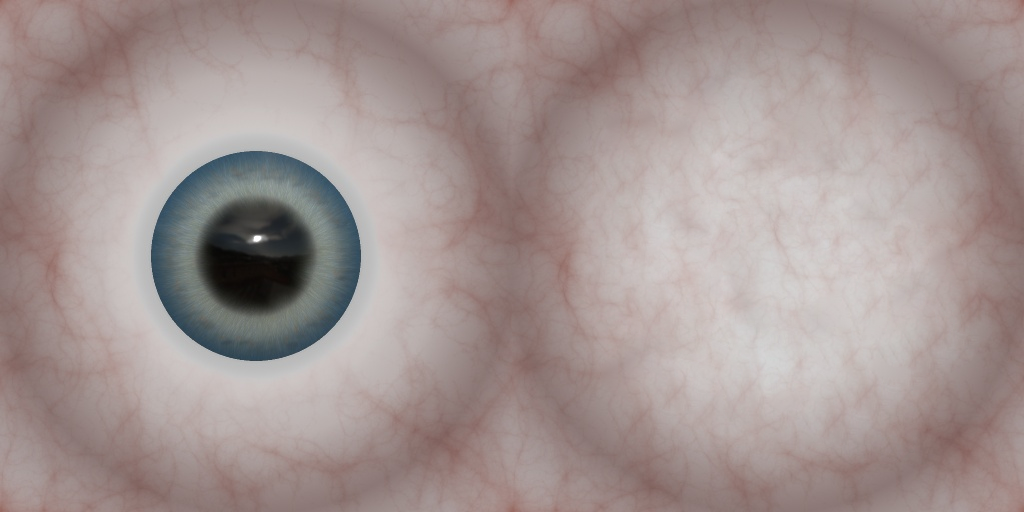
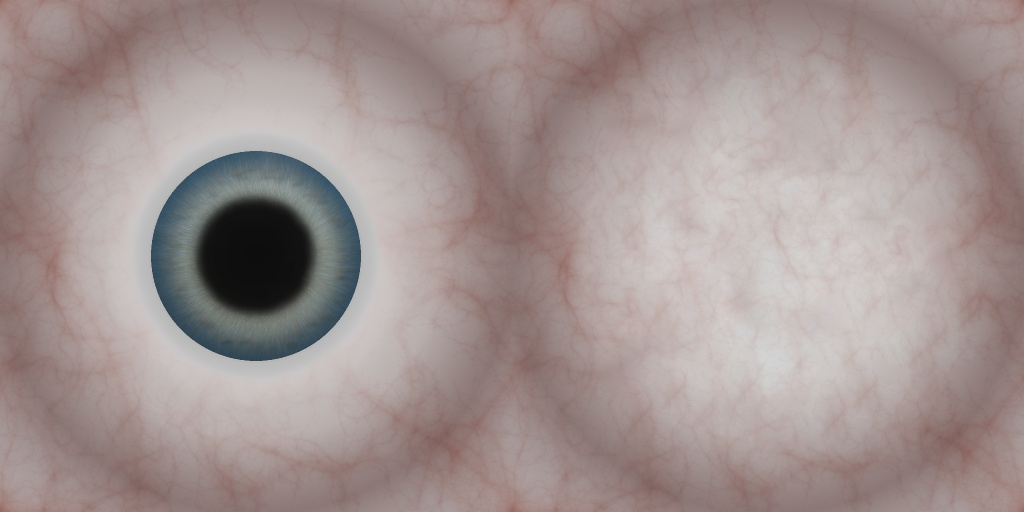
Changed /skins, adjusted some skins. - /skins now uses the same code for spawning marbles as /client - Added normal map for baseball - Set animated skins to be premium-only - Adjusted eyeball skin diffuse to no longer have the static reflection

Changed region(s): [[0.1875, 0.375, 0.3125, 0.5625], [0.25, 0.5625, 0.2812, 0.625]]

diff --git a/src/client/skins/skins.js b/src/client/skins/skins.js
@@ -1,7 +1,7 @@
-import * as THREE from "three";
 import { renderCore } from "../render/render-core";
 import { levelManager } from "../level-manager";
 import { marbleManager } from "../marble-manager";
+import { marbleSkins } from "../marble-skins";
 import { cameras } from "../render/cameras";
 import domReady from "../dom-ready";
 
@@ -11,66 +11,68 @@ renderCore.updateCallback = function(deltaTime) {
 	levelManager.activeLevel.update(deltaTime);
 
 	if (_rotateMarbles) {
-		_leftMesh.rotation.x += .01;
-		_leftMesh.rotation.y += .01;
-		_leftMesh.rotation.z += .01;
+		_marbleLeft.rotation.x += .01;
+		_marbleLeft.rotation.y += .01;
+		_marbleLeft.rotation.z += .01;
 
-		_rightMesh.rotation.x += .01;
-		_rightMesh.rotation.y += .01;
-		_rightMesh.rotation.z += .01;
+		_marbleRight.rotation.x += .01;
+		_marbleRight.rotation.y += .01;
+		_marbleRight.rotation.z += .01;
 	}
 };
 levelManager.initialize();
 marbleManager.initialize();
 
-// Add marbles
 let _rotateMarbles = false;
-let _marble = {
-	skinId: "default",
-	color: "#ffffff"
-};
-_marble.geometry = new THREE.SphereBufferGeometry(1, 32, 32);
-_marble.materialColor = new THREE.Color(_marble.color);
-_marble.material = new THREE.MeshStandardMaterial({
-	color: _marble.materialColor,
-	roughness: .9,
-	metalness: 0,
-	map: marbleManager.getSkin(_marble.skinId)
-});
 
+// Add marbles
+let _marbleData = {
+	name: "",
+	size: 1,
+	color: "#ffffff",
+	skinId: "default"
+};
+let _marbleLeft = marbleManager.spawnMarble(_marbleData);
+let _marbleRight = marbleManager.spawnMarble(_marbleData);
 
 // Left mesh
-let _leftMesh = new THREE.Mesh(_marble.geometry, _marble.material);
-_leftMesh.position.x = renderCore.activeCamera.camera.position.x - 1.3;
-_leftMesh.position.y = renderCore.activeCamera.camera.position.y - 1;
-_leftMesh.position.z = renderCore.activeCamera.camera.position.z - 3;
-renderCore.mainScene.add(_leftMesh);
+_marbleLeft.position.x = renderCore.activeCamera.camera.position.x - 1.3;
+_marbleLeft.position.y = renderCore.activeCamera.camera.position.y - 1;
+_marbleLeft.position.z = renderCore.activeCamera.camera.position.z - 3;
+renderCore.mainScene.add(_marbleLeft);
 
 // Right mesh
-let _rightMesh = new THREE.Mesh(_marble.geometry, _marble.material);
-_rightMesh.position.x = renderCore.activeCamera.camera.position.x + 1.3;
-_rightMesh.position.y = renderCore.activeCamera.camera.position.y - 1;
-_rightMesh.position.z = renderCore.activeCamera.camera.position.z - 3;
-_rightMesh.rotation.y = Math.PI;
-renderCore.mainScene.add(_rightMesh);
+_marbleRight.position.x = renderCore.activeCamera.camera.position.x + 1.3;
+_marbleRight.position.y = renderCore.activeCamera.camera.position.y - 1;
+_marbleRight.position.z = renderCore.activeCamera.camera.position.z - 3;
+_marbleRight.rotation.y = Math.PI;
+renderCore.mainScene.add(_marbleRight);
 
 domReady.then(() => {
 	for (let skinEntry of document.getElementsByClassName("skinEntry")) {
-		// Add click event for every entry in the list of skins
-		skinEntry.addEventListener("click", () => {
-			let selected = skinEntry.parentNode.getElementsByClassName("selected")[0];
-			if (selected) selected.classList.remove("selected");
-			skinEntry.classList.add("selected");
-			_marble.material.map = marbleManager.getSkin(skinEntry.dataset.skinId);
-		}, false);
+		// ID
+		let id = skinEntry.dataset.skinId;
+
+		// Load skin material, then add a click listener to the corresponding entry
+		marbleSkins.loadSkin(id)
+			.then(()=>{
+				// Add click event for every entry in the list of skins
+				skinEntry.addEventListener("click", () => {
+					let selected = skinEntry.parentNode.getElementsByClassName("selected")[0];
+					if (selected) selected.classList.remove("selected");
+					skinEntry.classList.add("selected");
+
+					let material = marbleSkins.getSkin(id);
+					_marbleLeft.children[0].material = _marbleRight.children[0].material = material;
+				}, false);
+			});
 
 		// Also add the image in front
-		skinEntry.getElementsByClassName("color")[0].style.backgroundImage = `url("resources/skins/${skinEntry.dataset.skinId}.png")`;
+		skinEntry.getElementsByClassName("color")[0].style.backgroundImage = `url("resources/skins/${id}/diffuse.png")`;
 	}
 
 	// Add functionality for automatically rotating the marbles
 	document.getElementById("toggleRotate").addEventListener("change", function() {
-		console.log(this.checked);
 		_rotateMarbles = this.checked;
 	}, false);
 });

diff --git a/src/client/marble-skins.js b/src/client/marble-skins.js
@@ -28,30 +28,39 @@ let marbleSkins = function() {
 	);
 
 	return {
-		applySkin: function(marbleData) {
-			let skinMeta = _skins[marbleData.skinId];
-			if (skinMeta.customShader) {
-				marbleData.mesh.material = skinMeta.material;
-				console.log(marbleData.mesh.material);
-			} else {
-				if (skinMeta.diffuse) {
-					marbleData.material.map = skinMeta.diffuse;
-				}
-				if (skinMeta.normal) {
-					marbleData.material.normalMap = skinMeta.normal;
-				}
-			}
+		placeholderMaterial: new THREE.MeshStandardMaterial({
+			color: new THREE.Color("#000000"),
+			roughness: .9,
+			metalness: 0
+		}),
 
-			marbleData.material.needsUpdate = true;
-			console.log(marbleData.mesh);
+
+		/**
+		 * Opposed to loadSkin(), this will return the requested skin immediately.
+		 *
+		 * @param {String} skinId The ID for the skin that needs to be loaded.
+		 *
+		 * Return value
+		 * @returns {THREE.Material} The skin material, or undefined if the skin has not been loaded yet.
+		 */
+		getSkin: function(skinId) {
+			return _skins[skinId].material;
 		},
 
-		getSkin: function(marbleData) {
-			let skinId = marbleData.skinId;
+		/**
+		 * This function will load a skin from the server and parse it to a material.
+		 *
+		 * @param {String} skinId The ID for the skin that needs to be loaded.
+		 * @param {String} color Optionally, the base color of the material. Will default to "#ffffff".
+		 *
+		 * Return value
+		 * @returns {Promise} The corresponding material.
+		 */
+		loadSkin: function(skinId, color) {
 			if (!_skins[skinId]) {
 				// Fetch skin meta. It will attempt to download the meta file that belongs to the skin ID.
 				// It will then parse to form the final material.
-				fetch(`resources/skins/${skinId}/meta.json`)
+				return fetch(`resources/skins/${skinId}/meta.json`)
 					.then((response) => {
 						if (response.ok) {
 							return response.json();
@@ -62,7 +71,6 @@ let marbleSkins = function() {
 					// Parse meta file
 					.then((skinMeta) => {
 						_skins[skinId] = skinMeta;
-						console.log(skinMeta);
 
 						if (skinMeta.customShader) {
 							// Load shader files. This tries to load all shader file types. If loading fails (because
@@ -105,9 +113,6 @@ let marbleSkins = function() {
 									renderCore.shaderMaterials.push(_skins[skinId].material);
 
 									return _skins[skinId].material;
-								})
-								.then(() => {
-									this.applySkin(marbleData);
 								});
 						} else {
 							// Load various maps. This tries to load all map types. If loading fails (because
@@ -133,13 +138,21 @@ let marbleSkins = function() {
 										);
 									})
 								);
-								console.log(marbleData.material[map]);
 							}
 
-							// After all texture maps are loaded, apply the skin
+							// After all texture maps are loaded, create the material
 							return Promise.all(mapTexturePromises)
 								.then(() => {
-									this.applySkin(marbleData);
+									let materialValues = {};
+									materialValues.color = new THREE.Color(color || "#ffffff");
+									materialValues.roughness = !isNaN(skinMeta.roughness) ? skinMeta.roughness : .9;
+									materialValues.metalness = !isNaN(skinMeta.metalness) ? skinMeta.metalness : 0;
+									materialValues.map = _skins[skinId].diffuse;
+									if (_skins[skinId].normal) {
+										materialValues.normalMap = _skins[skinId].normal;
+									}
+
+									return _skins[skinId].material = new THREE.MeshStandardMaterial(materialValues);
 								});
 						}
 					})
@@ -148,8 +161,10 @@ let marbleSkins = function() {
 						delete _skins[skinId];
 					});
 			} else {
-				// Skin meta has already been retrieved before, so we only have to apply it.
-				this.applySkin(marbleData);
+				// Skin meta has already been retrieved before, so we only have to return it. Since the
+				// return value is always expected to be a promise, we will return a promise that
+				// immediately resolves to the already loaded material.
+				return Promise.resolve(_skins[skinId].material);
 			}
 		}
 	};

diff --git a/src/client/marble-manager.js b/src/client/marble-manager.js
@@ -57,14 +57,13 @@ const MarbleMesh = function(marbleData) {
 	this.marbleOrigin = new THREE.Group();
 
 	this.geometry = marbleManager.marbleGeometry;
-	this.materialColor = new THREE.Color(this.color);
-	this.material = new THREE.MeshStandardMaterial({
-		color: this.materialColor,
-		roughness: .9,
-		metalness: 0
-	});
+	this.material = marbleSkins.placeholderMaterial;
 	this.mesh = new THREE.Mesh(this.geometry, this.material);
-	marbleSkins.getSkin(this);
+	marbleSkins.loadSkin(this.skinId, this.color)
+		.then((skinMaterial) => {
+			this.material = this.mesh.material = skinMaterial;
+		});
+
 	this.marbleOrigin.add(this.mesh);
 
 	// Set scale based on marble size

diff --git a/src/web-marbles.js b/src/web-marbles.js
@@ -159,7 +159,7 @@ app.get("/editor", function(req, res) {
 });
 
 app.get("/skins", function(req, res) {
-	res.render("skins", { rootUrl: config.network.rootUrl, version, skinIds: skins.idList });
+	res.render("skins", { rootUrl: config.network.rootUrl, version, skinList: Object.values(skins.skinList) });
 });
 
 app.get("/terms", function(req, res) {
